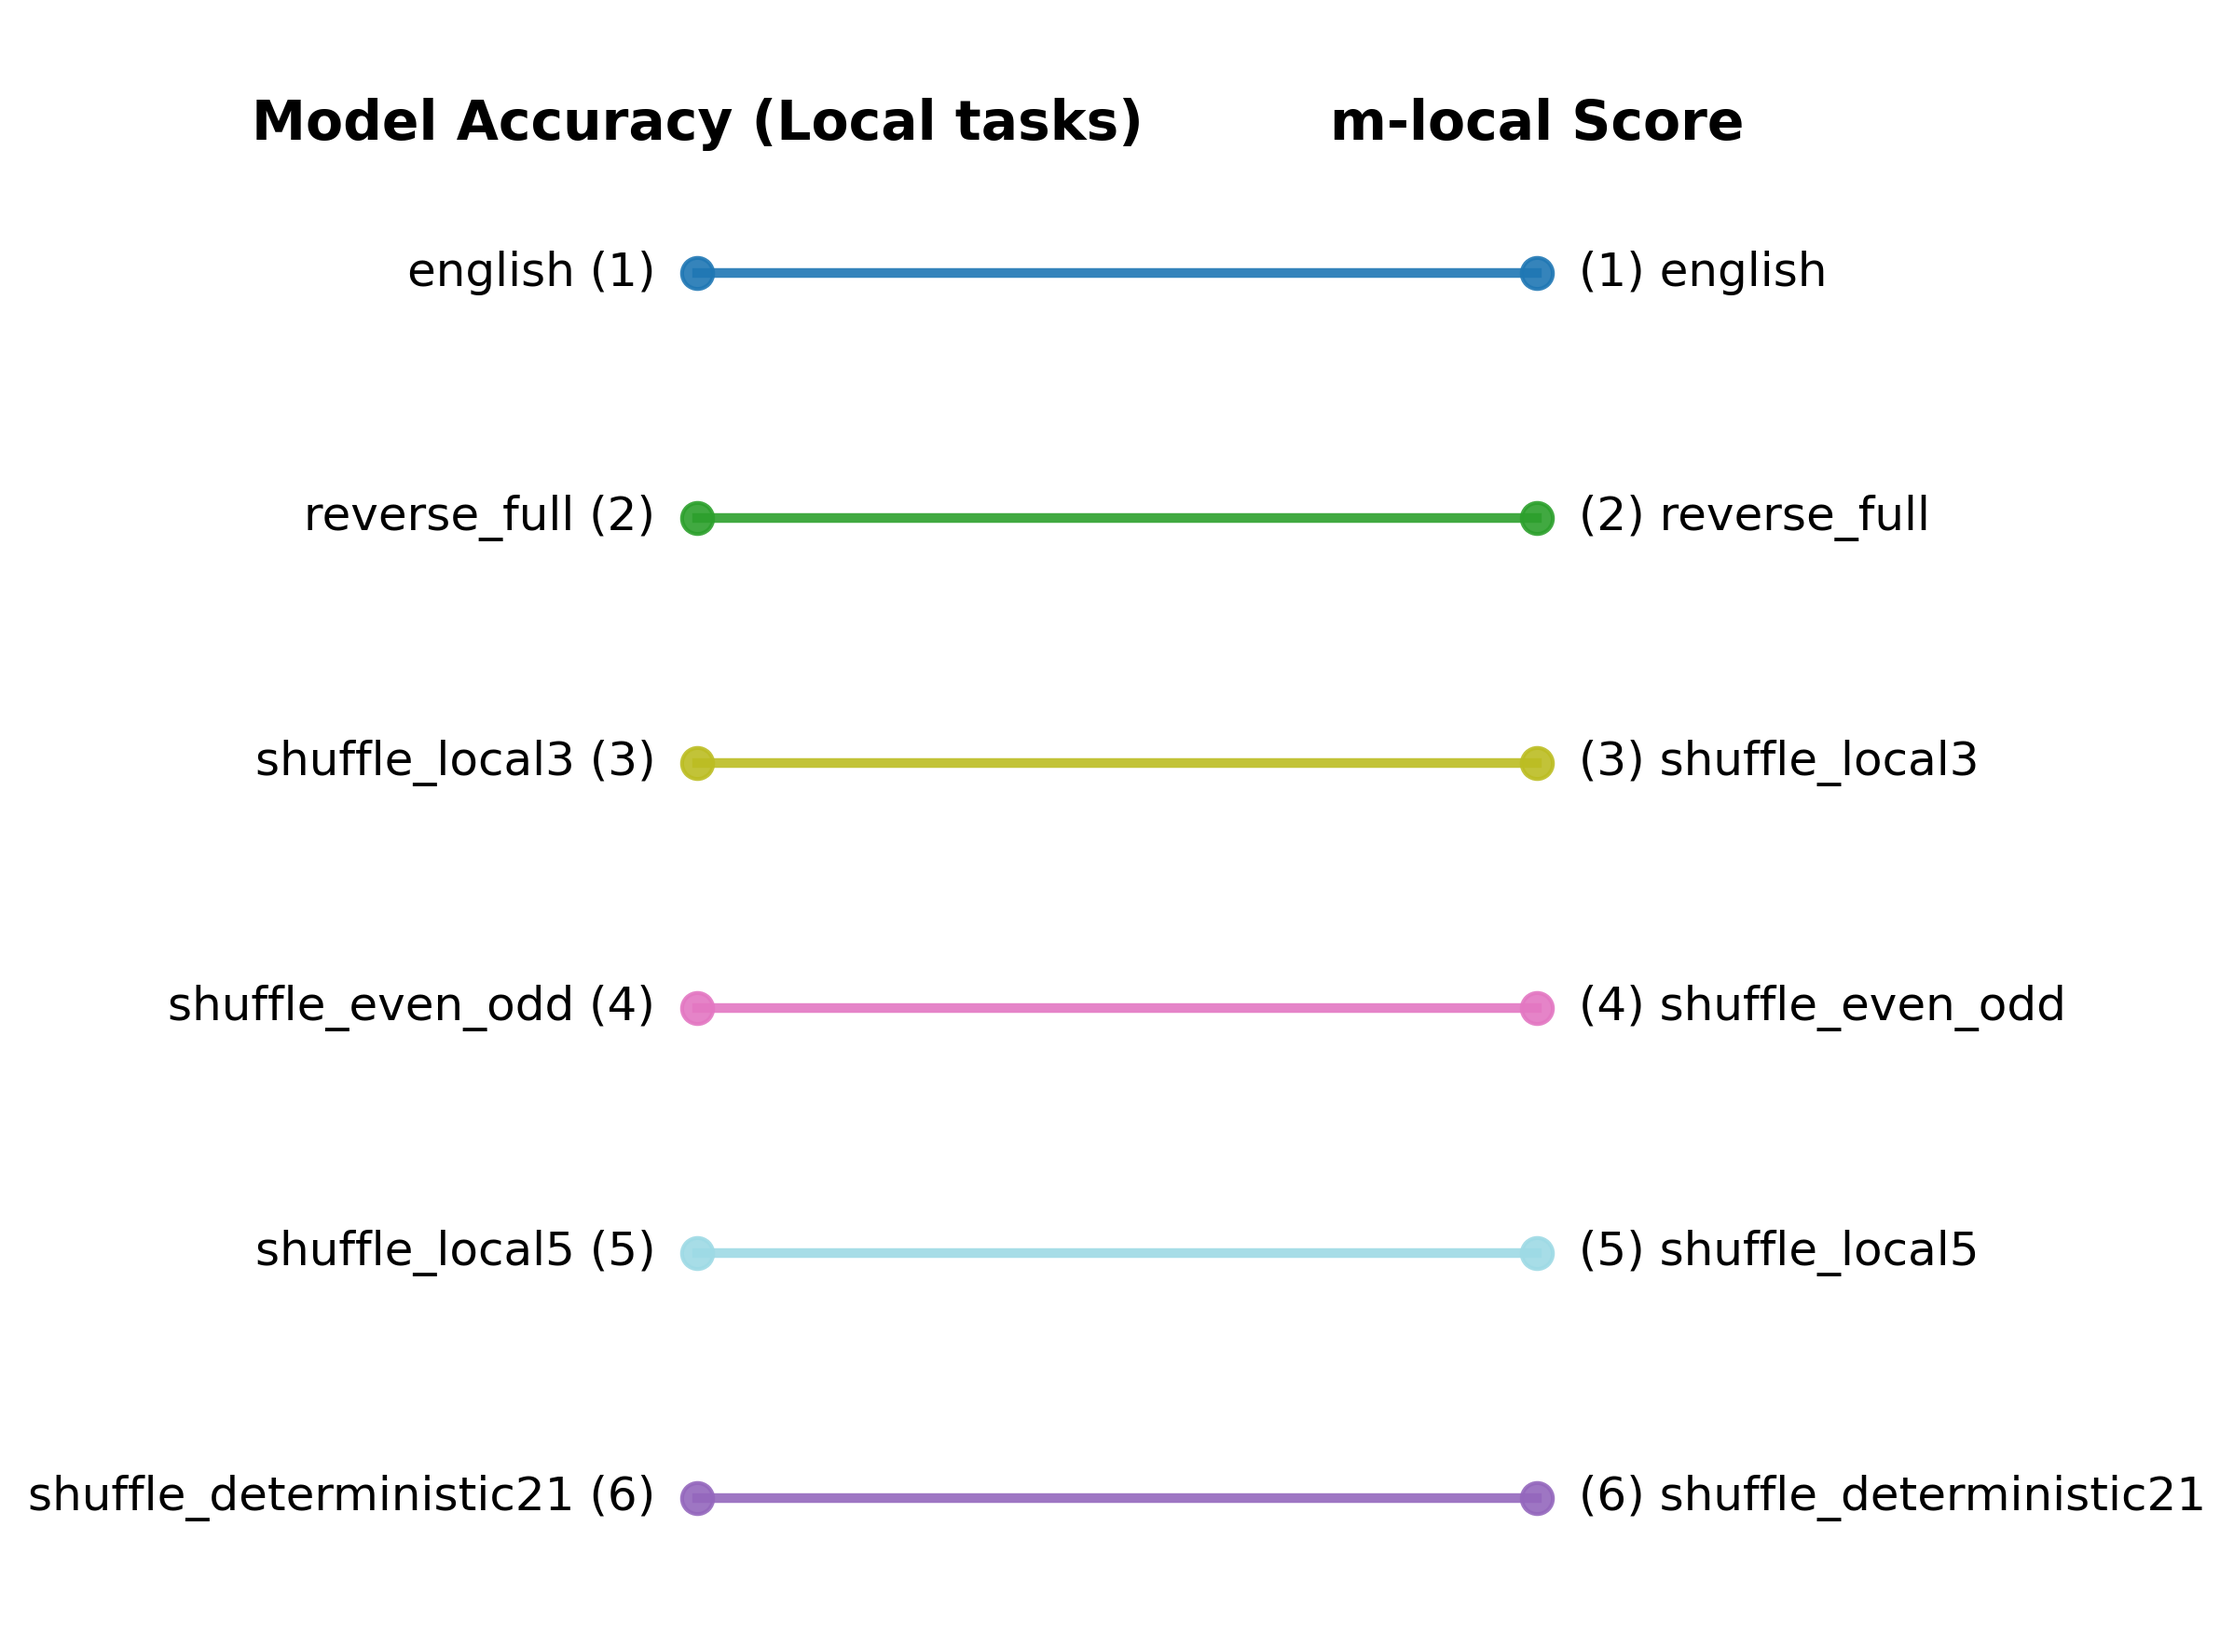
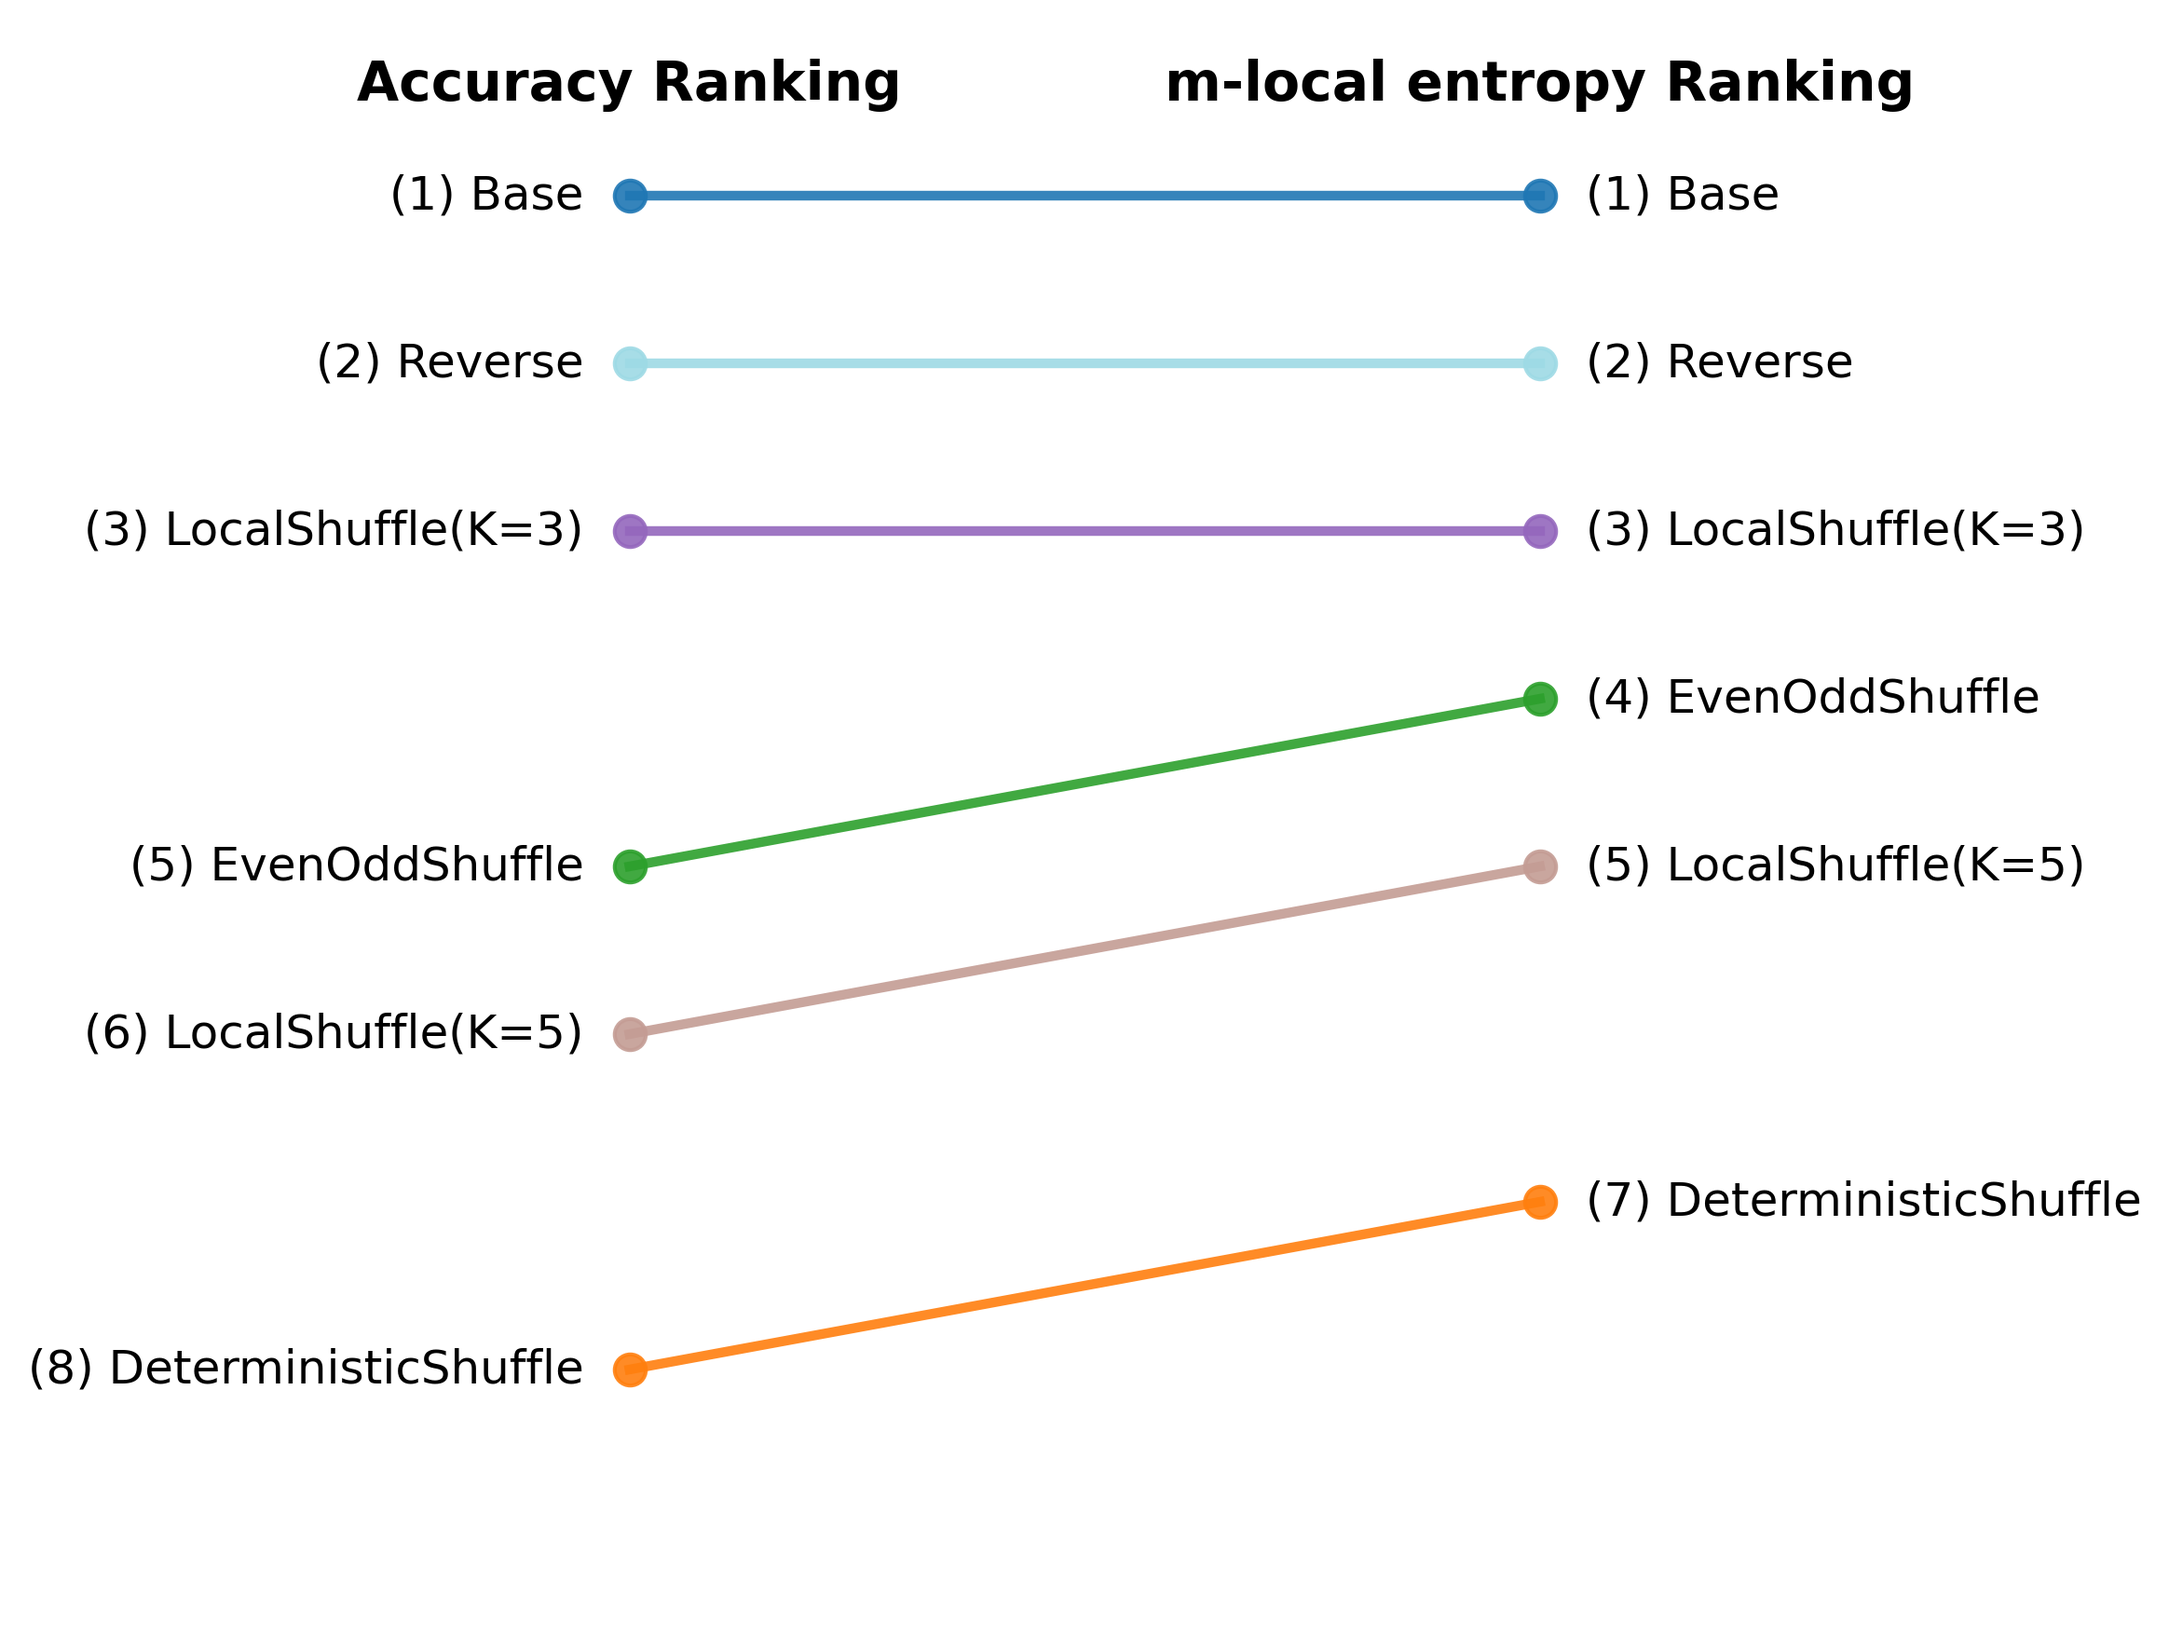
Update ranking comparison logic

diff --git a/analysis/performance_statistics.py b/analysis/performance_statistics.py
@@ -521,66 +521,99 @@ def plot_parallel_rankings(
     Creates a parallel coordinates plot to compare multiple rankings of the same items.
     This visualization is excellent for showing consistency (parallel lines) or inconsistency
     (crossed lines) between different ranking criteria.
-
     Args:
         rankings (Dict[str, List[str]]): A dictionary where keys are ranking labels
-                                         (e.g., "Accuracy") and values are ordered
-                                         lists of item names (e.g., model names).
+                                       (e.g., "Accuracy") and values are ordered
+                                       lists of item names (e.g., model names).
         output_path (str): The path to save the generated plot.
         title (str): The overall title for the plot.
     """
     ranking_labels = list(rankings.keys())
     num_rankings = len(ranking_labels)
-
-    # 1. Get all unique items (models) and create maps from item to rank for each list
+    
+    # 1. Get all unique items across all rankings
     all_items = sorted(list(set.union(*[set(r) for r in rankings.values()])))
     num_items = len(all_items)
     
-    rank_maps = {label: {item: i for i, item in enumerate(ranking_list)} 
-                 for label, ranking_list in rankings.items()}
-
+    # 2. Create maps from item to rank for each ranking
+    rank_maps = {}
+    for label, ranking_list in rankings.items():
+        rank_maps[label] = {item: i for i, item in enumerate(ranking_list)}
+    
     fig, ax = plt.subplots(figsize=(4 * num_rankings, max(6, 0.5 * num_items)))
     
-    # 2. Assign a unique color to each model for clear tracking
-    # Using 'tab20' which has a good variety of distinct colors
+    # 3. Assign a unique color to each item for clear tracking
     colors = plt.cm.get_cmap('tab20', num_items)
-
-    # 3. Plot lines for each item, connecting its rank across the different criteria
+    
+    # 4. Plot lines for each item, but only connect items that exist in multiple rankings
+    plotted_items = []
     for i, item in enumerate(all_items):
-        # Ensure the item exists in all rankings to be plotted
-        if all(item in rank_maps[label] for label in ranking_labels):
-            ranks = [rank_maps[label][item] for label in ranking_labels]
+        # Find which rankings contain this item
+        available_rankings = [label for label in ranking_labels if item in rank_maps[label]]
         
+        # Only plot if item exists in at least 2 rankings
+        if len(available_rankings) >= 2:
+            x_positions = []
+            y_positions = []
+            
+            # Get positions for this item across all rankings where it exists
+            for j, label in enumerate(ranking_labels):
+                if item in rank_maps[label]:
+                    x_positions.append(j)
+                    y_positions.append(rank_maps[label][item])
+            
             # Plot the line connecting the ranks
-            ax.plot(range(num_rankings), ranks, color=colors(i), marker='o', 
-                    markersize=8, alpha=0.9, linewidth=2.5, label=item)
-
-            # Add text labels with rank number at the start and end points
-            ax.text(-0.05, ranks[0], f"{item} ({ranks[0]+1})", ha='right', va='center', fontsize=12)
-            ax.text(num_rankings - 1 + 0.05, ranks[-1], f"({ranks[-1]+1}) {item}", ha='left', va='center', fontsize=12)
-
-    # 4. Set column headers (the names of the rankings)
+            ax.plot(x_positions, y_positions, color=colors(i), marker='o',
+                   markersize=8, alpha=0.9, linewidth=2.5, label=item)
+            
+            # Add text labels at the first and last positions where item appears
+            if x_positions:
+                first_x, first_y = x_positions[0], y_positions[0]
+                last_x, last_y = x_positions[-1], y_positions[-1]
+                
+                ax.text(first_x - 0.05, first_y, f"({first_y+1}) {item}", 
+                       ha='right', va='center', fontsize=12)
+                ax.text(last_x + 0.05, last_y, f"({last_y+1}) {item}", 
+                       ha='left', va='center', fontsize=12)
+            
+            plotted_items.append(item)
+    
+    # # 5. Add items that only appear in one ranking as single points
+    # for i, item in enumerate(all_items):
+    #     if item not in plotted_items:
+    #         # Find the single ranking this item appears in
+    #         for j, label in enumerate(ranking_labels):
+    #             if item in rank_maps[label]:
+    #                 rank = rank_maps[label][item]
+    #                 ax.plot(j, rank, color=colors(i), marker='o',
+    #                        markersize=8, alpha=0.6)
+    #                 ax.text(j + 0.05, rank, f"({rank+1}) {item}", 
+    #                        ha='left', va='center', fontsize=12, alpha=0.6)
+    #                 break
+    
+    # 6. Set column headers (the names of the rankings)
+    max_rank = max(len(ranking) for ranking in rankings.values()) if rankings else 1
     for i, label in enumerate(ranking_labels):
         ax.text(i, -0.5, label, ha='center', va='bottom', fontsize=14, fontweight='bold')
-
-    # 5. Final plot styling for a clean, professional look
-    # ax.set_title(title, fontsize=18, fontweight='bold', pad=30)
+    
+    # 7. Final plot styling for a clean, professional look
     ax.invert_yaxis()  # Puts Rank 1 at the top
-    ax.set_ylim(num_items - 0.5, -1)
+    ax.set_ylim(max_rank - 0.5, -1)
     ax.set_xlim(-0.5, num_rankings - 0.5)
-    ax.set_xticks([]) # Hide x-axis ticks, we have headers
-    ax.set_yticks([]) # Hide y-axis ticks
-    ax.spines[:].set_visible(False) # Remove the plot frame
-
+    ax.set_xticks([])  # Hide x-axis ticks, we have headers
+    ax.set_yticks([])  # Hide y-axis ticks
+    ax.spines[:].set_visible(False)  # Remove the plot frame
+    
     plt.tight_layout()
     os.makedirs(os.path.dirname(output_path), exist_ok=True)
     plt.savefig(output_path, dpi=300, bbox_inches='tight')
     plt.close()
     print(f"Parallel ranking plot saved to {output_path}")
 
+
     
 def main():
-    # save_performance_table_image(PHENOMENA_LIST, output_filename="performance_table_overall.png")
+    save_performance_table_image(PHENOMENA_LIST, output_filename="performance_table_overall.png")
     local_ordering_phenomena = [
         "anaphor_gender_agreement", "anaphor_number_agreement",
         "existential_there_quantifiers_1",
@@ -630,17 +663,14 @@ def main():
         reverse=False
     )
 
-    print("\n--- Generating plot for structural phenomena ---")
-
-
-
     # --- LOCAL PHENOMENA: CONSISTENCY COMPARISON ---
-    csv_file = "experiments/output/v2/results.csv"
     print("\n--- Generating comparison plot for local phenomena rankings ---")
+    csv_file = "experiments/output/v2/results.csv"
+
     # Models and scores for the "m-local" metric
     mlocal_labels = ["Base", "Reverse", "EvenOddShuffle", "LocalShuffle(K=3)", "LocalShuffle(K=5)", "LocalShuffle(K=7)", "DeterministicShuffle"]
     mlocal_values = [2.92, 2.98, 3.76, 3.68, 3.88, 4.06, 4.60]
-
+    
     # Map the custom labels to the model names used in the CSV file
     model_name_map = {
         "Base": "english", "Reverse": "reverse_full",
@@ -649,33 +679,41 @@ def main():
         "DeterministicShuffle": "shuffle_deterministic21"
     }
 
-    # 1. Get Accuracy Ranking from CSV, restricted to the models in the m-local list
-    accuracy_ranking_local_all = get_performance_ranking(phenomena=local_ordering_phenomena, csv_path=csv_file)
-    accuracy_ranking_local = [m for m in accuracy_ranking_local_all if m in model_name_map.values()]
+    skipped_local_models = ["reverse_partial", "shuffle_local10", "shuffle_nondeterministic"]
 
+    # Reverse map for converting model names to display names
+    display_name_map = {v: k for k, v in model_name_map.items()}
+    
+    # 1. Get Accuracy Ranking from CSV, convert to display names
+    accuracy_ranking_local_models = get_performance_ranking(phenomena=local_ordering_phenomena, csv_path=csv_file)
+    print(f"acurac - {accuracy_ranking_local_models}")
+    accuracy_ranking_local = [display_name_map.get(model, MODEL_TO_DISPLAY_NAME.get(model, model)) 
+                             for model in accuracy_ranking_local_models 
+                             if model in display_name_map or model in MODEL_TO_DISPLAY_NAME]
+        
     # 2. Create m-local Ranking (lower score is better)
     sorted_mlocal = sorted(zip(mlocal_labels, mlocal_values), key=lambda item: item[1])
-    mlocal_ranking = [model_name_map[model] for model, _ in sorted_mlocal if model in model_name_map]
+    mlocal_ranking = [model for model, _ in sorted_mlocal]
     
     # 3. Plot the comparison
     plot_parallel_rankings(
         rankings={
-            "Model Accuracy (Local tasks)": accuracy_ranking_local,
-            "m-local Score": mlocal_ranking,
+            "Accuracy Ranking": accuracy_ranking_local,
+            "m-local entropy Ranking": mlocal_ranking,
         },
         output_path="analysis/output/local_ranking_consistency.png",
         title="Local Phenomena: Ranking Consistency"
     )
-
+    
     # --- STRUCTURAL PHENOMENA: INCONSISTENCY COMPARISON ---
     print("\n--- Generating comparison plot for structural phenomena rankings ---")
+    
     # Models and their scores for other structural metrics
     structural_models = MODEL_ORDER
-
     dep_stats_filepath = "analysis/output/dep_stats.csv"
     df = pd.read_csv(dep_stats_filepath)
     grouped = df.groupby('perturbation')
-
+    
     # Calculate aggregations
     agg_stats = {}
     for name, group in grouped:
@@ -686,30 +724,33 @@ def main():
             'proportion_projective': group['is_projective'].mean(),
             'num_sentences': len(group)
         }
-
+    
     # Create a DataFrame from the aggregated stats
     stats_df = pd.DataFrame.from_dict(agg_stats, orient='index')
-
     dep_dist_values = stats_df['avg_norm_dep_distance'].tolist()
     projectivity_values = stats_df['proportion_projective'].tolist()
     crossing_dependencies_values = stats_df['avg_crossing_deps'].tolist()
-
-    # 1. Get Accuracy Ranking from CSV
-    accuracy_ranking_structural = get_performance_ranking(phenomena=structural_phenomena, csv_path=csv_file)
-
+    
+    # Convert structural model names to display names
+    structural_display_names = [MODEL_TO_DISPLAY_NAME.get(model, model) for model in structural_models]
+    
+    # 1. Get Accuracy Ranking from CSV, convert to display names
+    accuracy_ranking_structural_models = get_performance_ranking(phenomena=structural_phenomena, csv_path=csv_file)
+    accuracy_ranking_structural = [MODEL_TO_DISPLAY_NAME.get(model, model) for model in accuracy_ranking_structural_models]
+    
     # 2. Create Dependency Distance Ranking (lower score is better)
-    sorted_dep_dist = sorted(zip(structural_models, dep_dist_values), key=lambda item: item[1])
+    sorted_dep_dist = sorted(zip(structural_display_names, dep_dist_values), key=lambda item: item[1])
     dep_dist_ranking = [model for model, value in sorted_dep_dist]
-
+    
     # 3. Create Projectivity Ranking (higher score is better)
-    sorted_projectivity = sorted(zip(structural_models, projectivity_values), key=lambda item: item[1], reverse=True)
+    sorted_projectivity = sorted(zip(structural_display_names, projectivity_values), key=lambda item: item[1], reverse=True)
     projectivity_ranking = [model for model, _ in sorted_projectivity]
-
+    
     # 4. Crossing dependency count (lower score is better)
-    sorted_dep_dist = sorted(zip(structural_models, crossing_dependencies_values), key=lambda item: item[1])
-    crossing_dependencies_ranking = [model for model, _ in sorted_dep_dist]
-
-    # 4. Plot the comparison
+    sorted_crossing = sorted(zip(structural_display_names, crossing_dependencies_values), key=lambda item: item[1])
+    crossing_dependencies_ranking = [model for model, _ in sorted_crossing]
+    
+    # 5. Plot the comparison
     plot_parallel_rankings(
         rankings={
             "Model Accuracy (Structural tasks)": accuracy_ranking_structural,
